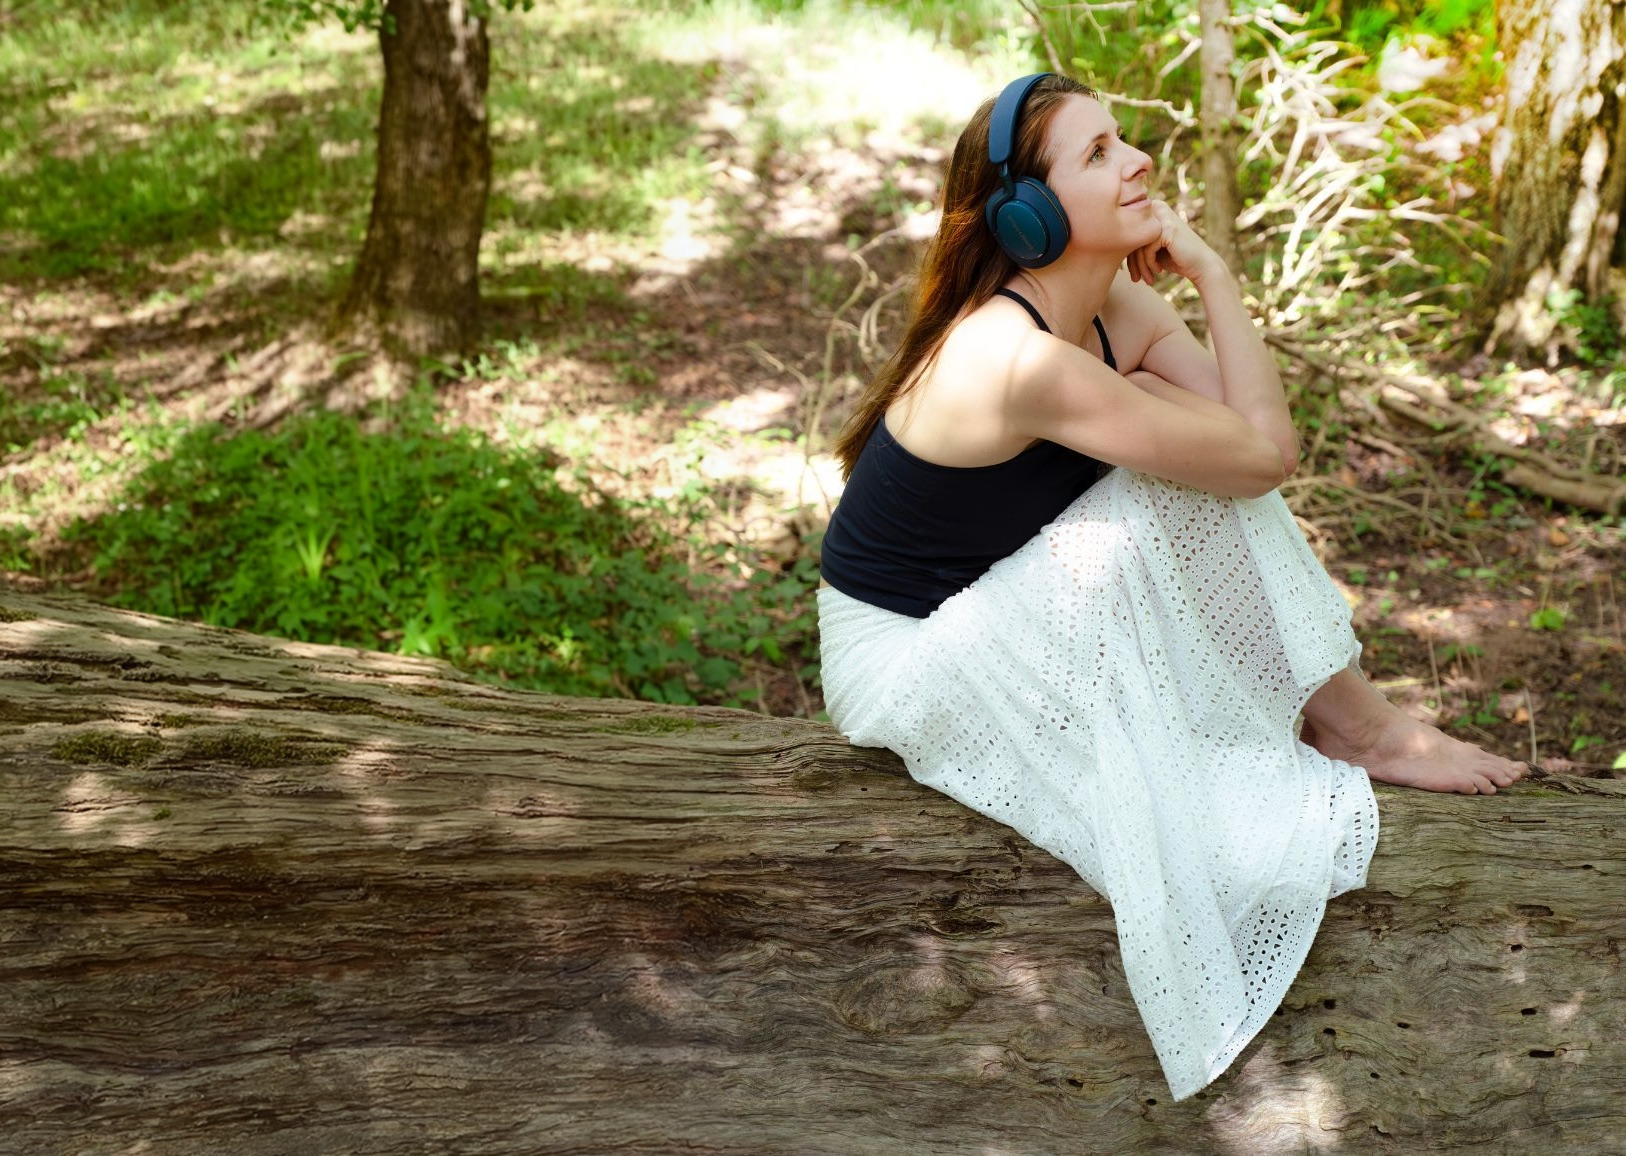
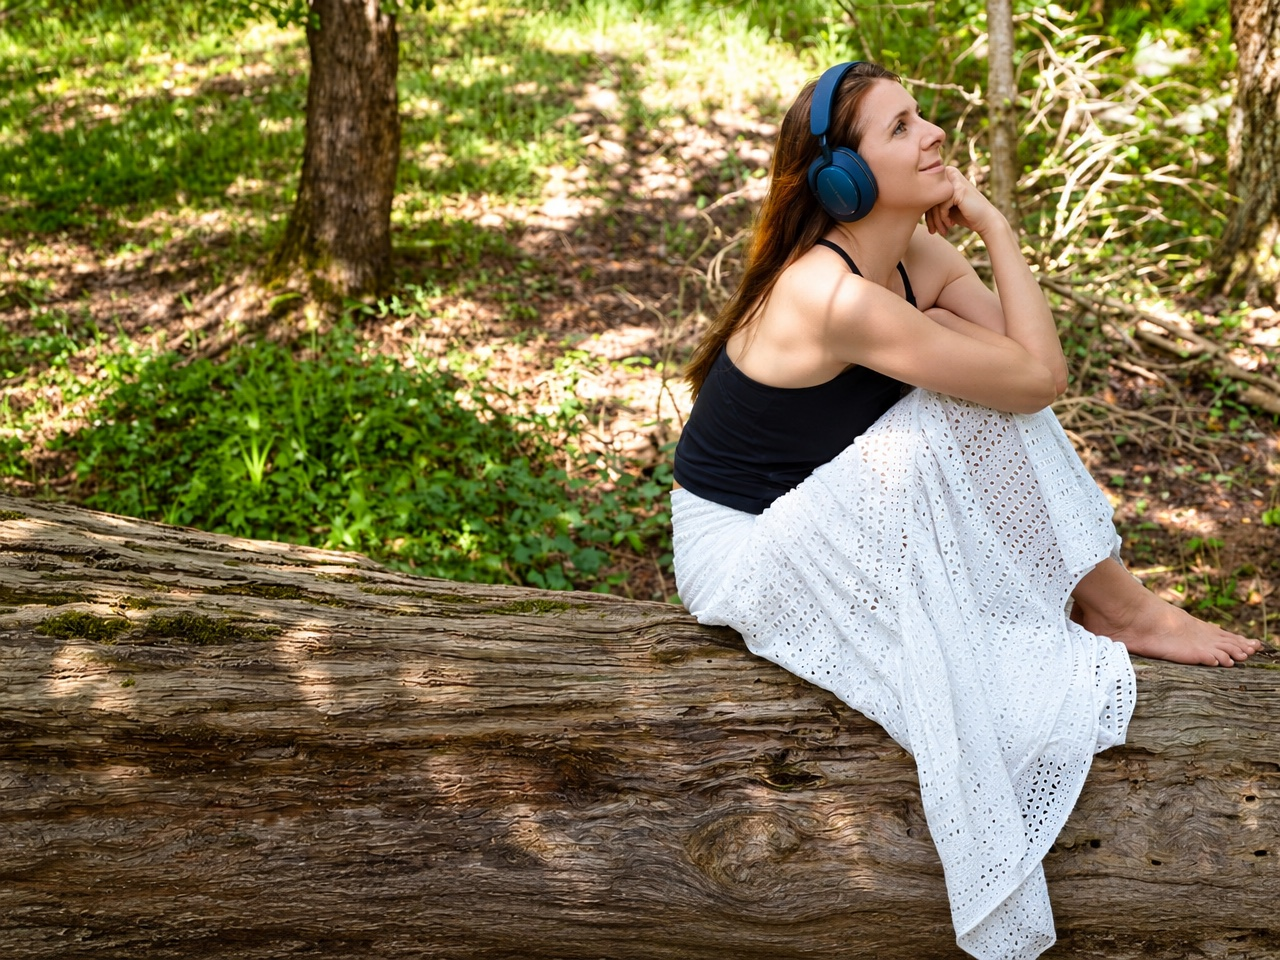
Sharper hero photo (Figma upscale)

diff --git a/index.html b/index.html
@@ -8,12 +8,12 @@
 <link rel="preconnect" href="https://fonts.googleapis.com">
 <link rel="preconnect" href="https://fonts.gstatic.com" crossorigin>
 <link href="https://fonts.googleapis.com/css2?family=DM+Sans:opsz,wght@9..40,400;9..40,500;9..40,600&family=Newsreader:opsz,wght@6..72,300;6..72,400&display=swap" rel="stylesheet">
-<link rel="stylesheet" href="css/tokens.css?v=202611270837">
-<link rel="stylesheet" href="css/images.css?v=202611270837">
-<link rel="stylesheet" href="css/components.css?v=202611270837">
-<link rel="stylesheet" href="css/player.css?v=202611270837">
-<link rel="stylesheet" href="css/sections.css?v=202611270837">
-<link rel="stylesheet" href="css/responsive.css?v=202611270837">
+<link rel="stylesheet" href="css/tokens.css?v=202611270857">
+<link rel="stylesheet" href="css/images.css?v=202611270857">
+<link rel="stylesheet" href="css/components.css?v=202611270857">
+<link rel="stylesheet" href="css/player.css?v=202611270857">
+<link rel="stylesheet" href="css/sections.css?v=202611270857">
+<link rel="stylesheet" href="css/responsive.css?v=202611270857">
 </head>
 <body>
 <div class="page">
@@ -272,12 +272,12 @@
   </div>
 </template>
 
-<script src="js/waves-data.js?v=202611270837"></script>
-<script src="js/waves.js?v=202611270837"></script>
+<script src="js/waves-data.js?v=202611270857"></script>
+<script src="js/waves.js?v=202611270857"></script>
 <script>window.HR_PLAYER_BARS = [9, 9, 10, 11, 12, 14, 17, 19, 22, 24, 26, 27, 28, 28, 28, 29, 30, 32, 34, 37, 39, 41, 43, 44, 46, 47, 48, 48, 44, 37, 26, 16, 11, 10, 10, 11, 13, 15, 18, 20, 23, 25, 27, 28, 28, 28, 28, 29, 31, 33, 35, 38, 40, 42, 44, 45, 46, 47, 48, 46, 41, 32, 21, 13, 10, 10, 11, 12, 14, 17, 19, 22, 24, 26, 27, 28, 28, 28, 29, 30, 32, 34, 37, 39, 41, 43, 44, 46, 47, 48, 48, 44, 37, 27, 16, 11, 10, 10, 11, 13, 15, 18, 20, 23, 25, 27, 28, 28, 28, 28, 29, 31, 33, 35, 38, 40, 42, 44, 45, 46, 47, 48, 46, 41, 31, 19, 12, 10, 10, 10, 10, 11, 11, 11, 10];</script>
-<script src="js/player.js?v=202611270837"></script>
-<script src="js/parallax.js?v=202611270837"></script>
-<script src="js/form.js?v=202611270837"></script>
-<script src="js/testimonial.js?v=202611270837"></script>
+<script src="js/player.js?v=202611270857"></script>
+<script src="js/parallax.js?v=202611270857"></script>
+<script src="js/form.js?v=202611270857"></script>
+<script src="js/testimonial.js?v=202611270857"></script>
 </body>
 </html>

diff --git a/css/images.css b/css/images.css
@@ -2,12 +2,12 @@
    IMAGE SLOTS
    Photos live in assets/img. Each slot shows a palette gradient until you point
    the variable at a file. Example:
-     --img-hero: url("../assets/img/hero.jpg");
+     --img-hero: url("../assets/img/hero.jpg?v=202611270857");
    ========================================================================== */
 
 :root {
-  --img-hero: url("../assets/img/hero.jpg");        /* Hero background, 1440 x 938, subject on the right */
-  --img-katie: url("../assets/img/katie.jpg");       /* About photo, 474 x 609 (portrait) */
-  --img-lake: url("../assets/img/lake.jpg");        /* Small photo between About and Testimonial, 160 x 217 */
-  --img-form-bg: url("../assets/img/form-bg.jpg?v=202611270837");     /* Bottom form section background, 1440 x ~1000 */
+  --img-hero: url("../assets/img/hero.jpg?v=202611270857");        /* Hero background, 1440 x 938, subject on the right */
+  --img-katie: url("../assets/img/katie.jpg?v=202611270857");       /* About photo, 474 x 609 (portrait) */
+  --img-lake: url("../assets/img/lake.jpg?v=202611270857");        /* Small photo between About and Testimonial, 160 x 217 */
+  --img-form-bg: url("../assets/img/form-bg.jpg?v=202611270857");     /* Bottom form section background, 1440 x ~1000 */
 }
